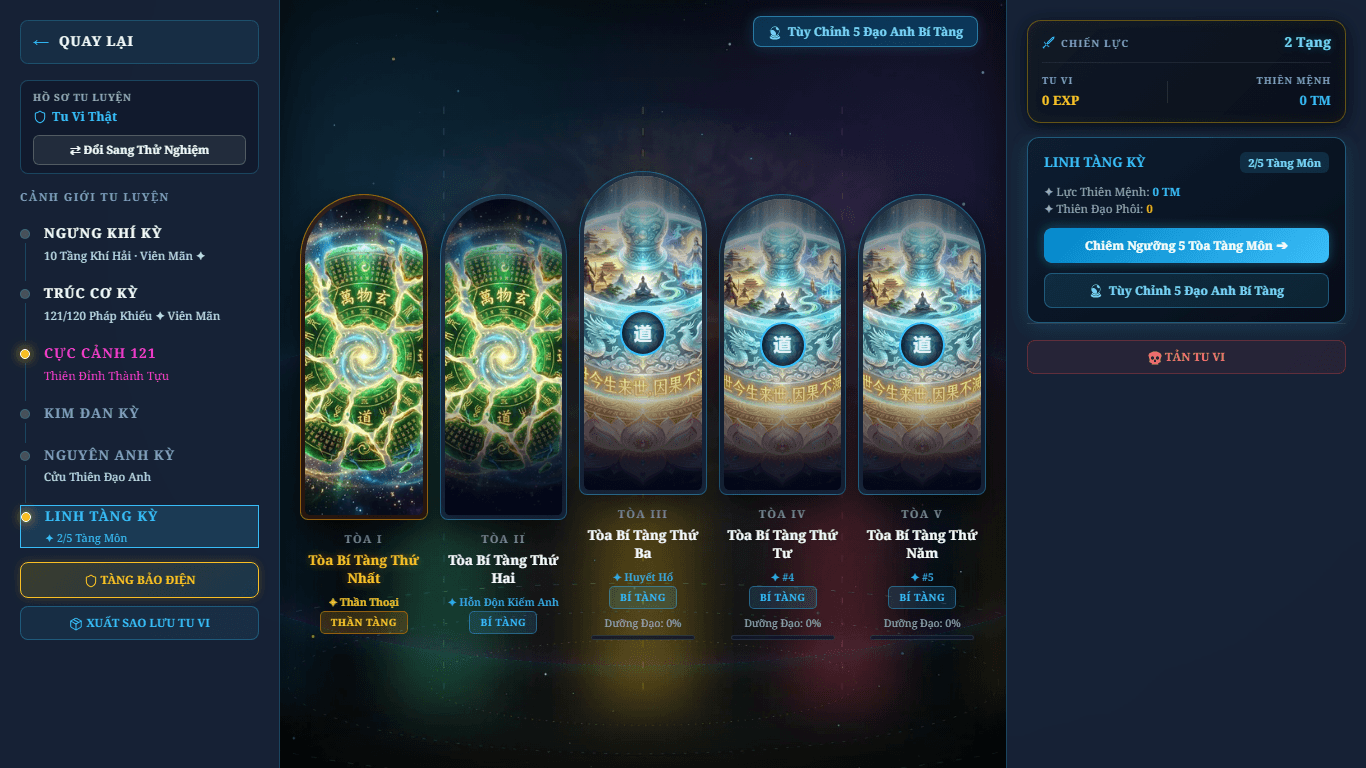
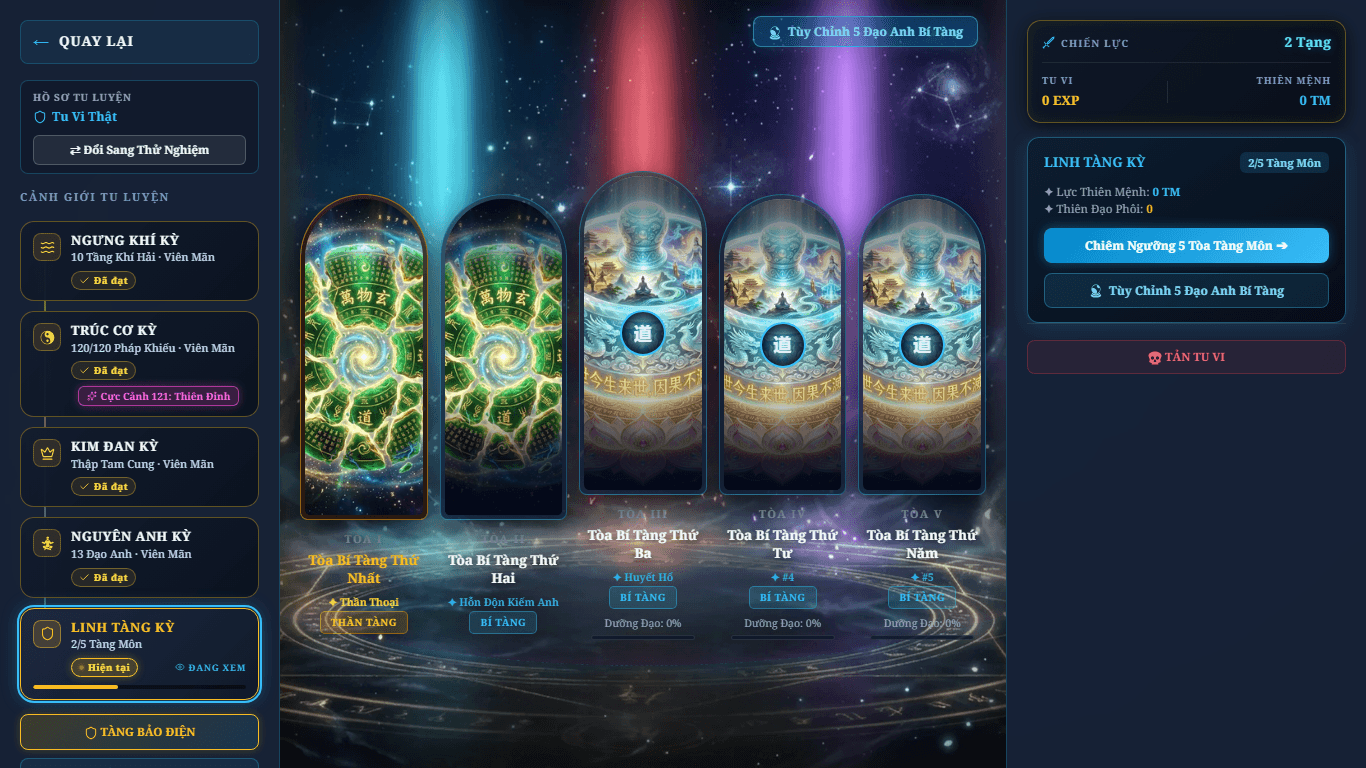
feat(cultivation): ai-generated nguyen anh and linh tang backgrounds

Changed region(s): [[0.0, 0.0, 0.7379, 1.0], [0.246, 0.3125, 0.2767, 0.375], [0.1845, 0.0625, 0.2152, 0.125]]

diff --git a/src/components/cultivation/RealmPreviewVisualizer.jsx b/src/components/cultivation/RealmPreviewVisualizer.jsx
@@ -28,6 +28,7 @@ import styles from './RealmPreviewVisualizer.module.css';
 
 import bgTrucCoGalaxy from '../../assets/images/truc_co_galaxy_bg.jpg';
 import bgNguyenAnhThucHai from '../../assets/images/bg_nguyen_anh_thuc_hai.webp';
+import bgNguyenAnhThucHaiMobile from '../../assets/images/bg_nguyen_anh_thuc_hai_mobile.webp';
 import bgGodCosmicEye from '../../assets/images/bg_god_cosmic_eye.jpg';
 import imgHuyetHoGod from '../../assets/images/huyet_ho_god.webp';
 import imgLongKinhGod from '../../assets/images/long_kinh_god.webp';
@@ -5397,6 +5398,7 @@ export default function RealmPreviewVisualizer({ hideModalFrame, cultivation: pr
         const naCanvasHeight = isMobile ? 1140 : 960;
         const naCenterX = isMobile ? 360 : 640;
         const naCenterY = isMobile ? 570 : 480;
+        const currentBgNguyenAnh = isMobile ? bgNguyenAnhThucHaiMobile : bgNguyenAnhThucHai;
 
         const desktop13Positions = [
           { id: 'pos_0',  x: 640,  y: 480, isCenter: true, scale: 1.28, nw: 240 }, // Index 0: TÂM (Bản Mệnh Tối Cao Tọa Trấn Trung Xu)
@@ -6018,7 +6020,7 @@ export default function RealmPreviewVisualizer({ hideModalFrame, cultivation: pr
               height: '100%',
               minHeight: '100%',
               flex: 1,
-              background: `#040714 url(${bgNguyenAnhThucHai}) center/cover no-repeat`,
+              background: `#040714 url(${currentBgNguyenAnh}) center/cover no-repeat`,
               border: 'none',
               borderRadius: 0,
               overflow: 'hidden'
@@ -6111,7 +6113,7 @@ export default function RealmPreviewVisualizer({ hideModalFrame, cultivation: pr
 
                 {/* ─── HÌNH NỀN GEN AI CỬU THIÊN TINH HÀ RỰC RỠ ─── */}
                 <image
-                  href={bgNguyenAnhThucHai}
+                  href={currentBgNguyenAnh}
                   x="0"
                   y="0"
                   width={naCanvasWidth}

diff --git a/src/components/cultivation/LinhTangVisualizer.module.css b/src/components/cultivation/LinhTangVisualizer.module.css
@@ -28,6 +28,12 @@
   user-select: none;
 }
 
+@media (max-width: 768px) {
+  .container {
+    background-image: url('../../assets/images/bg_linh_tang_bi_tang_mobile.webp');
+  }
+}
+
 /* =========================================================================
    BACKGROUND COSMIC VOID & DIVINE EYE LAYERS
    ========================================================================= */
@@ -456,6 +462,7 @@
   margin-bottom: 6px;
   text-align: center;
   word-break: break-word;
+  text-shadow: 0 2px 10px rgba(0, 0, 0, 0.95);
 }
 
 .gateMainNameGold {
